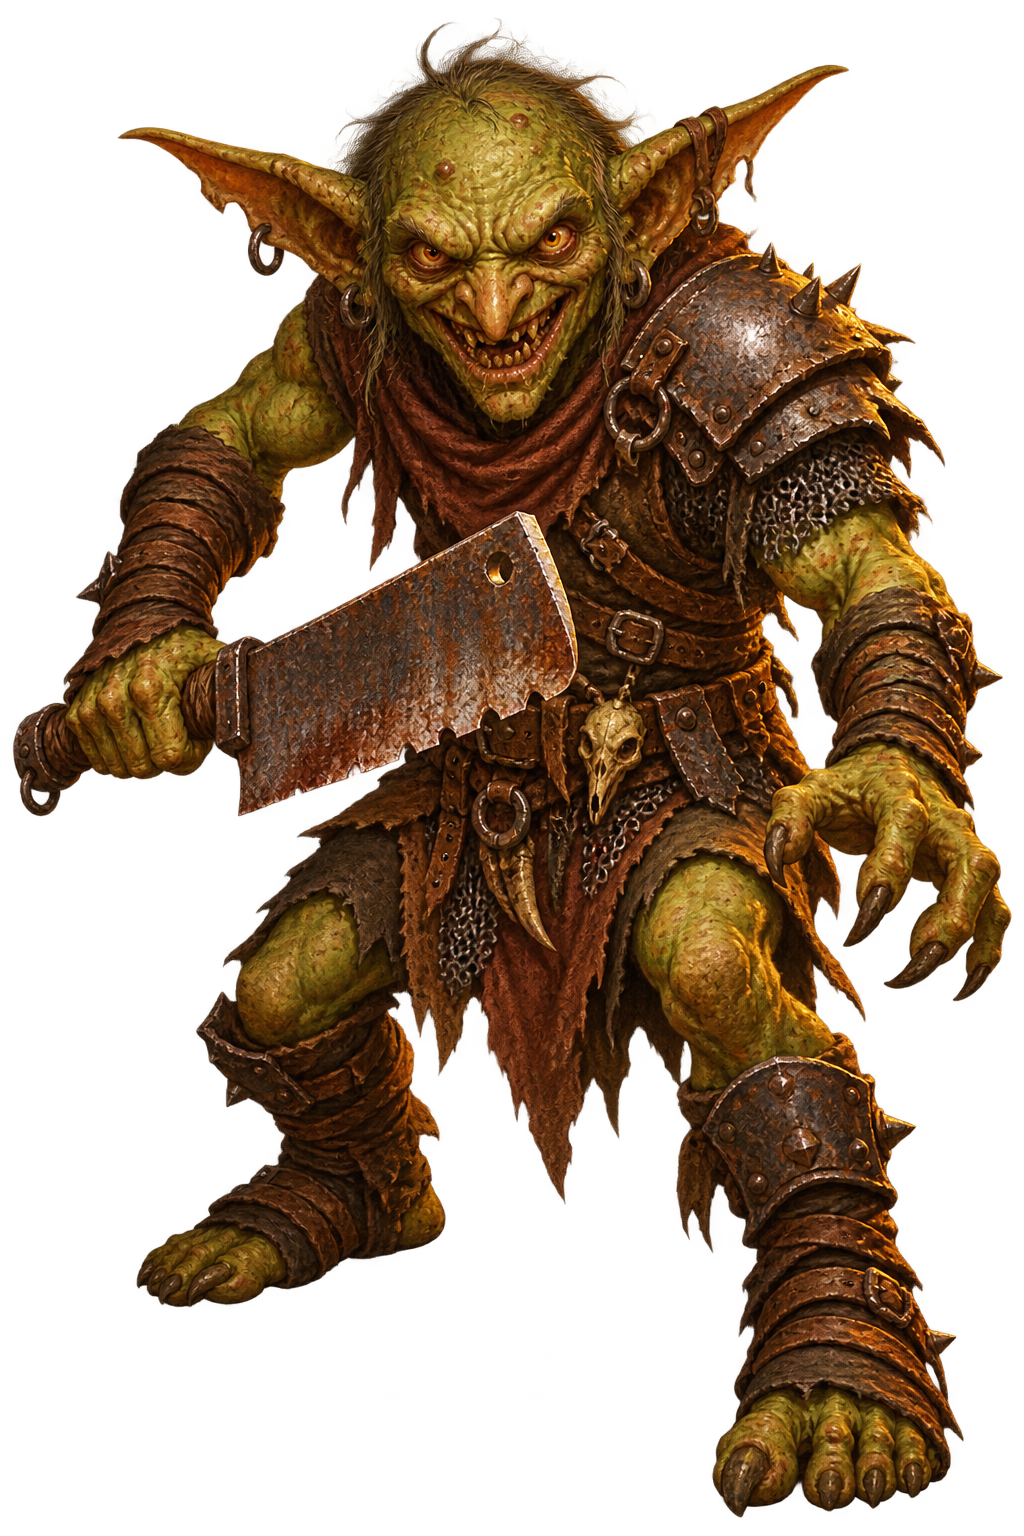
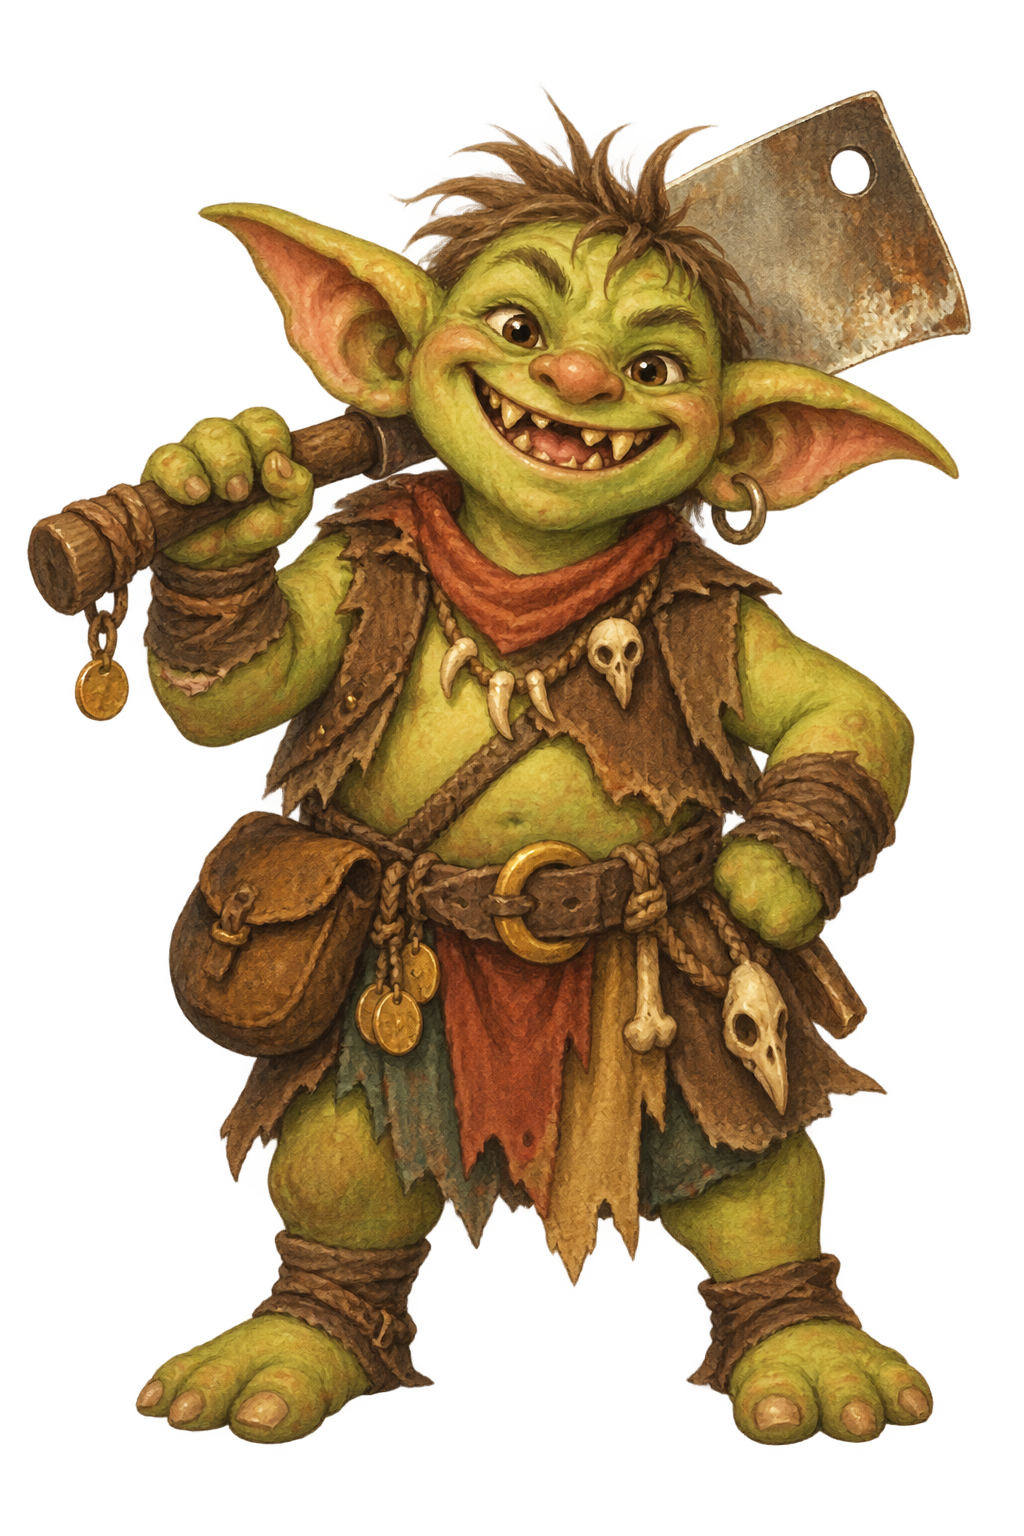
art: 风格v2.1温暖绘本样张重生成+极软探针；风格片段绘本化（负面词压制硬核倾向）

diff --git a/.agents/skills/mh-art/scripts/gen_asset.py b/.agents/skills/mh-art/scripts/gen_asset.py
@@ -37,48 +37,56 @@ ARCHIVE_ROOT = os.path.join(REVIEW_ROOT, "_archived")
 ASSETS_ROOT = os.path.join("docs", "design", "assets")
 
 # ---- 项目规格表（与 SKILL.md 保持同步）----
-STYLE_BASE = ("dark fantasy storybook game art, ancient memory-palace library aesthetic, "
-              "aged parchment and antique gold palette, warm candlelight atmosphere, "
-              "painterly hand-drawn texture")
+# 风格 v2.1（2026-08-25）：v1 暗黑厚涂被否决（"过于硬核"）；v2 基线对卡面/卡背/敌人
+# 软化不足（视觉自检仍判"金属高光、硬边、高对比厚涂"），故追加哑光/软边/禁金属高光
+# 禁颗粒质感等负面词；记忆殿堂主题与羊皮纸+古金色板保留。
+STYLE_BASE = ("cozy fantasy storybook game art, soft watercolor and gouache hand-painting, "
+              "ancient memory-palace library aesthetic, aged parchment and antique gold palette, "
+              "warm gentle candlelight glow, soft rounded shapes, low contrast matte finish, "
+              "gentle blurred edges like a children's picture book, no metallic specular "
+              "highlights, no gritty texture, whimsical friendly storybook mood")
 
 # 发布目录（实际应用区）：扁平无子目录——文件名自带类别前缀（prefix 字段），
 # 发布时按前缀校验命名规范；仅 docs 文档仓库适用，勿再按类型嵌套。
 SPECS = {
     "card": dict(size="1024x1536", transparent=False, resize=None,
                  review="cards", prefix="card_",
-                 style="vertical trading-card illustration, single focal subject, dynamic pose, "
-                       "rich atmospheric background, no text, no watermark"),
+                 style="vertical storybook illustration, single clear focal subject, calm friendly "
+                       "composition, dreamy soft watercolor-wash background, no text, no watermark"),
     "cardback": dict(size="1024x1536", transparent=False, resize=None,
                      review="cardbacks", prefix="cardback_",
-                     style="full playing-card back design filling the whole canvas, ornate symmetrical "
-                           "border, radial gradient field, glowing central emblem, subtle arcane rune "
-                           "pattern, no text, no watermark"),
+                     style="full playing-card back design filling the whole canvas, soft rounded "
+                           "hand-painted symmetrical border, gentle watercolor wash field, softly "
+                           "glowing central emblem, delicate hand-drawn flourishes, "
+                           "no text, no watermark"),
     "icon": dict(size="1024x1024", transparent=True, resize="256x256",
                  review="icons", prefix="icon_",
-                 style="flat dark-fantasy game icon, centered composition, bold readable silhouette, "
+                 style="flat fantasy storybook game icon, centered composition, bold readable silhouette, "
                        "glowing accent color, plain transparent background, no text, no watermark"),
     "relic": dict(size="1024x1024", transparent=True, resize="256x256",
                   review="relics", prefix="relic_",
-                  style="flat dark-fantasy game icon of a small magical artifact, centered, bold "
+                  style="flat fantasy storybook game icon of a small magical artifact, centered, bold "
                         "readable silhouette, soft glow, plain transparent background, "
                         "no text, no watermark"),
     "potion": dict(size="1024x1024", transparent=True, resize="256x256",
                    review="potions", prefix="potion_",
-                   style="flat dark-fantasy game icon of an alchemy potion bottle, centered, bold "
+                   style="flat fantasy storybook game icon of an alchemy potion bottle, centered, bold "
                          "readable silhouette, glass and liquid glow, plain transparent background, "
                          "no text, no watermark"),
     "node": dict(size="1024x1024", transparent=True, resize="256x256",
                  review="map-nodes", prefix="node_",
-                 style="flat dark-fantasy map node emblem, centered, bold readable silhouette, "
-                       "plain transparent background, no text, no watermark"),
+                    style="flat fantasy storybook map node emblem, centered, bold readable silhouette, "
+                          "plain transparent background, no text, no watermark"),
     "enemy": dict(size="1024x1024", transparent=True, resize=None,
                   review="enemies", prefix="enemy_",
-                  style="single fantasy monster, full body, centered, facing viewer, menacing pose, "
+                  style="single friendly picture-book fantasy monster, full body, centered, facing "
+                        "viewer, rounded soft cartoonish design, mischievous but not scary, "
                         "transparent background, no text, no watermark"),
     "portrait": dict(size="1024x1536", transparent=True, resize=None,
                      review="portraits", prefix="portrait_",
-                     style="full body character, centered, facing viewer, hero pose, "
-                           "transparent background, no text, no watermark"),
+                     style="full body friendly storybook character, centered, facing viewer, gentle "
+                           "confident pose, rounded soft design, transparent background, "
+                           "no text, no watermark"),
     "background": dict(size="2048x1152", transparent=False, resize="1920x1080",
                        review="backgrounds", prefix="bg_",
                        style="wide scene illustration, soft depth, empty center area for UI, "

diff --git a/.agents/skills/mh-art/SKILL.md b/.agents/skills/mh-art/SKILL.md
@@ -48,13 +48,16 @@ description: 《记忆勇者》设计文档仓库专属 AI 生图——按 docs/
 
 ## 风格基线
 
-源自 [09-UI设计规范 §1](../../../docs/design/09-UI设计规范.md)「记忆殿堂」视觉定位：暗色奇幻 + 学术羊皮纸 + 古金点缀。所有 prompt 以此为底，保证新旧资产同风格：
+源自 [09-UI设计规范 §1](../../../docs/design/09-UI设计规范.md)「记忆殿堂」视觉定位：记忆殿堂主题 + 学术羊皮纸 + 古金点缀。所有 prompt 以此为底，保证新旧资产同风格。
 
-- **全局基线（EN，拼在最前）**：`dark fantasy storybook game art, ancient memory-palace library aesthetic, aged parchment and antique gold palette, warm candlelight atmosphere, painterly hand-drawn texture`
-- **卡面**：`single focal subject, dynamic pose, rich atmospheric background, no text, no watermark`
-- **卡背**：`full playing-card back design, ornate symmetrical border, radial gradient field, glowing central emblem, subtle arcane rune pattern, no text`（desc 里必须给类型色 hex，见 asset-specs 色板）
-- **图标（icon/relic/potion/node）**：`flat dark-fantasy game icon, centered composition, bold readable silhouette, glowing accent color, plain transparent background, no text, no watermark`
-- **立绘（enemy/portrait）**：`full body, centered, facing viewer, transparent background, no text, no watermark`
+> **风格 v2.1（2026-08-25）**：v1 暗黑厚涂（dark fantasy painterly）被用户否决——"过于硬核"。v2 软化后视觉自检发现卡面/卡背/立绘仍偏硬朗（金属高光、硬边、高对比），v2.1 追加**哑光、软边、禁金属高光、禁颗粒质感**负面词，并把这些类型的片段改为"绘本化"措辞（calm friendly / rounded soft / hand-painted border）。主题与色板不变，只换渲染语言。09 §1 文档待样张定稿后同步改写。
+
+- **全局基线（EN，拼在最前）**：`cozy fantasy storybook game art, soft watercolor and gouache hand-painting, ancient memory-palace library aesthetic, aged parchment and antique gold palette, warm gentle candlelight glow, soft rounded shapes, low contrast matte finish, gentle blurred edges like a children's picture book, no metallic specular highlights, no gritty texture, whimsical friendly storybook mood`
+- **卡面**：`vertical storybook illustration, single clear focal subject, calm friendly composition, dreamy soft watercolor-wash background, no text, no watermark`
+- **卡背**：`full playing-card back design filling the whole canvas, soft rounded hand-painted symmetrical border, gentle watercolor wash field, softly glowing central emblem, delicate hand-drawn flourishes, no text, no watermark`（desc 里必须给类型色 hex，见 asset-specs 色板）
+- **图标（icon/relic/potion/node）**：`flat fantasy storybook game icon, centered composition, bold readable silhouette, glowing accent color, plain transparent background, no text, no watermark`
+- **敌人**：`single friendly picture-book fantasy monster, full body, centered, facing viewer, rounded soft cartoonish design, mischievous but not scary, transparent background, no text, no watermark`
+- **角色**：`full body friendly storybook character, centered, facing viewer, gentle confident pose, rounded soft design, transparent background, no text, no watermark`
 - **背景**：`wide scene illustration, soft depth, empty center area for UI, no characters, no text, no watermark`
 - **纹理**：`seamless tileable texture, evenly lit, no vignette, no text`
 
